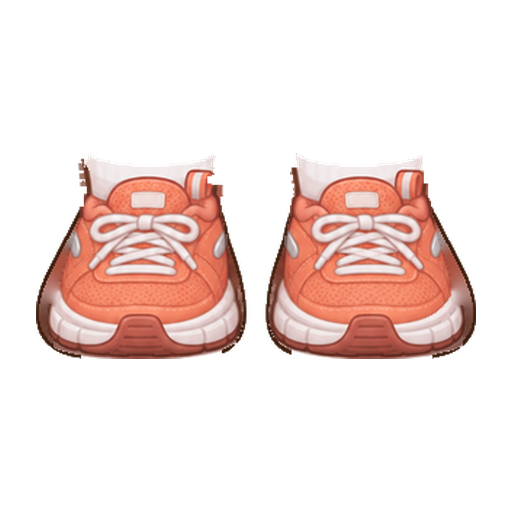
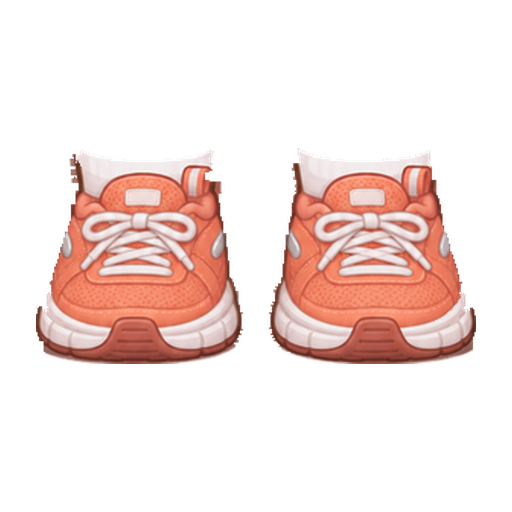
fix: 서기 맨몸의 맨발 칸을 비워 신발마다 제 외곽선이 실루엣이 되게 한다 [S15P31A207-300]
- 앱은 신발 칸을 늘 신발로 채운다(AvatarOutfit.shoes 0 = base_shoes, 서버의 해제도 0, OutfitLayerComposer는 묶음 파일이 없으면 base_*).
  그래서 맨발은 보일 일이 없고, 신발보다 넓은 맨발 실루엣이 lime_runner의 큰 외곽선·쐐기, 살구색 테두리로만 보였다(판정 round2~5).
- 서기 맨몸 아틀라스의 맨발 칸(x 96~420, y 640 아래, spec.BARE_FEET)을 비우고(stand_fix.clear_bare_feet), 검사 17번 서기 외곽선
  기준에서도 그 칸을 뺀다. 맨발을 신발 천으로 덮던 cover_feet는 stand-fix에서 빼고 신발 7켤레를 생성 원본에서 다시 만든다(회색 띠 지우기만).

Changed region(s): [[0.0625, 0.2812, 0.9375, 0.7188]]

diff --git a/android/core/avatar/tools/outfit-pipeline/outfit_pipeline/stand_fix.py b/android/core/avatar/tools/outfit-pipeline/outfit_pipeline/stand_fix.py
@@ -4,7 +4,8 @@
 2. 긴소매 상의 서기 레이어의 칼라·후드 안 빈 곳을 안감 색으로 메운다(`holes.line_collar`).
 3. 반팔·민소매 상의 서기 레이어의 몸통 옆 외곽선 밖 밝은 점을 외곽선 색으로 칠하고([solid_side_outline]), 민소매는 몸통 옆 맨살 띠와
    밑단 아래 맨살을 덮는다([close_side_skin]).
-4. 신발 서기 레이어의 외곽선 밖 회색 띠를 지우고(`feet.drop_halo`) 맨발 실루엣을 덮게 한다(`feet.cover_feet`).
+4. 신발 서기 레이어의 외곽선 밖 회색 띠를 지운다(`feet.drop_halo`). 맨몸 서기 아틀라스의 맨발 칸은 비운다([clear_bare_feet]):
+   신발이 늘 덮으므로 신발마다 제 외곽선이 실루엣이다(맨발을 신발로 덮던 `feet.cover_feet`는 쓰지 않는다).
 2·4 뒤에 새로 갇힌 좁은 틈은 검사 16번 규칙으로 메운다(`build.fill_layer_holes`).
 바뀐 묶음은 상점 그림도 다시 만든다.
 """
@@ -61,7 +62,7 @@ def fix_stand(outfits_dir: Path, raw_dir: Path, masks_dir: Path) -> dict[str, in
 
     from outfit_pipeline.body import drop_strays, wisp_layer
     from outfit_pipeline.build import cut_area, fill_layer_holes, make_shop
-    from outfit_pipeline.feet import HALO_LIGHT, HALO_LIGHT_BY_KEY, cover_feet, drop_halo
+    from outfit_pipeline.feet import HALO_LIGHT, HALO_LIGHT_BY_KEY, drop_halo
     from outfit_pipeline.holes import line_collar
 
     changed: dict[str, int] = {}
@@ -76,7 +77,13 @@ def fix_stand(outfits_dir: Path, raw_dir: Path, masks_dir: Path) -> dict[str, in
         changed[f"{spec.BODY_FOLDER}/{name}"] = (
             int((before != np.array(area)).sum()) if before is not None else area.size[0] * area.size[1]
         )
-    body = Image.open(folder / f"female_stand{spec.EXTENSION}").convert("RGBA")
+    body_path = folder / f"female_stand{spec.EXTENSION}"
+    body = Image.open(body_path).convert("RGBA")
+    cleared, count = clear_bare_feet(body)
+    if count:
+        spec.save_webp(cleared, body_path)
+        changed[f"{spec.BODY_FOLDER}/{body_path.name}"] = count
+        body = cleared
     short = [k for k in spec.LEGACY_KEYS["TOP"] if spec.default_male_top_surface(k) == 1]
     jobs = (
         [(key, line_collar) for key in COLLAR_KEYS]
@@ -86,7 +93,6 @@ def fix_stand(outfits_dir: Path, raw_dir: Path, masks_dir: Path) -> dict[str, in
         + [(key, solid_hem_corner) for key in short]
         + [(key, close_hem_slit) for key in SLIT_KEYS]
         + [(key, partial(drop_halo, light=HALO_LIGHT_BY_KEY.get(key, HALO_LIGHT))) for key in spec.LEGACY_KEYS["SHOES"]]
-        + [(key, cover_feet) for key in spec.LEGACY_KEYS["SHOES"]]
     )
     # 한 단계가 다른 단계의 결과를 바꿀 수 있어(회색 띠를 지우면 맨발이 새로 드러난다) 더 바뀌지 않을 때까지(최대 [PASSES]번) 되풀이한다
     for _ in range(PASSES):
@@ -278,3 +284,13 @@ def solid_hem_corner(layer: Image.Image, _body: Image.Image | None = None) -> tu
             array[y, x, :3] = color.round().astype(np.uint8)
         changed += len(paint)
     return Image.fromarray(array, "RGBA"), changed
+
+
+def clear_bare_feet(body: Image.Image) -> tuple[Image.Image, int]:
+    """서기 맨몸 아틀라스의 맨발 칸(spec.BARE_FEET)을 비운다(신발이 늘 덮는다). (맨몸, 비운 픽셀 수)."""
+    array = np.array(body.convert("RGBA"))
+    x0, y0, x1, y1 = spec.BARE_FEET
+    region = array[y0:y1, x0:x1]
+    count = int((region[..., 3] > 0).sum())
+    region[...] = 0
+    return Image.fromarray(array, "RGBA"), count

diff --git a/android/core/avatar/tools/outfit-pipeline/tests/test_stand_fix.py b/android/core/avatar/tools/outfit-pipeline/tests/test_stand_fix.py
@@ -106,8 +106,8 @@ def test_stand_fix_is_stable_on_the_committed_assets(tmp_path) -> None:
     assert fix_stand(tmp_path / "outfits", RAW, MASKS) == {}
 
 
-# 원본 그림의 뒤꿈치·발목 모양으로 원래 있던 옆 가장자리 계단(판정 round3 원본에서 잰 수). 나머지 신발은 계단이 없어야 한다
-SHOE_EDGE_STEPS = {"shoes_high_top": 1, "shoes_lime_runner": 2}
+# 원본 그림의 뒤꿈치·발목 모양으로 원래 있던 옆 가장자리 계단(승인 생성 원본에서 잰 수). 나머지 신발은 계단이 없어야 한다
+SHOE_EDGE_STEPS = {"shoes_high_top": 5, "shoes_lime_runner": 4}
 
 
 def _edge_steps(array: np.ndarray) -> int:
@@ -203,3 +203,11 @@ def test_solid_hem_corner_paints_light_specks_inside_the_hem_outline() -> None:
     array = np.array(out)
     assert count == 1 and array[292, 385, :3].mean() < 100
     assert array[250, 300, :3].tolist() == [250, 250, 250]
+
+
+def test_committed_stand_body_has_no_bare_feet() -> None:
+    """앱은 신발 칸을 늘 신발로 채우므로(base_shoes) 서기 맨몸의 맨발 칸은 비어 있다: 신발마다 제 외곽선이 실루엣이다(판정 round5 lime_runner)."""
+    body = np.array(Image.open(OUTFITS / spec.BODY_FOLDER / f"female_stand{spec.EXTENSION}").convert("RGBA"))
+    x0, y0, x1, y1 = spec.BARE_FEET
+    assert (body[y0:y1, x0:x1, 3] == 0).all()
+    assert (body[y0 - 20 : y0, x0:x1, 3] > 0).any()  # 그 위 다리(신발 목 위)는 남는다

diff --git a/android/core/avatar/tools/outfit-pipeline/outfit_pipeline/spec.py b/android/core/avatar/tools/outfit-pipeline/outfit_pipeline/spec.py
@@ -111,6 +111,10 @@ NECK_TOP = (176, 0, 337, 14)
 # CUT_RIGHT_NECK_SIDE)으로 둔다. 짝 어깨 띠를 상의가 덮을 때만 상의 밖 맨몸을 모두 지운다(cut.NECK_SIDES). 칼라가 맨몸 목보다 좁고
 # 어깨선이 낮은 상의(바람막이)에서 이 칸의 맨몸 어깨 윗선이 칼라 양옆에 짙은 획으로 떴다(판정 round1~3 B). 민소매 맨어깨는 그대로다
 NECK_SIDES = ((176, 217), (296, 337))
+# 서기 맨몸 아틀라스의 맨발 칸(x0, y0, x1, y1): 비운다. 앱은 신발 칸을 늘 신발로 채운다(AvatarOutfit.shoes 0 = base_shoes, 해제도 0,
+# OutfitLayerComposer는 묶음이 없으면 base_* 파일). 그래서 맨발은 보일 일이 없고, 신발보다 넓은 맨발 실루엣이 신발 옆 살구색 테두리·큰
+# 외곽선으로만 보였다(판정 round2~5 lime_runner). 신발마다 제 외곽선이 실루엣이 된다. 위 끝은 모든 신발이 다리 폭을 덮기 시작하는 행
+BARE_FEET = (96, 640, 421, 768)
 CUT_LEFT_NECK_SIDE, CUT_RIGHT_NECK_SIDE = 221, 181
 # 서기 허리 밴드(맨몸 바탕의 속옷 허리선, 상의 밑단과 하의 허리 사이): 피부가 아니라 자르지 않는다. 자르면 밑단과 허리 사이가 비었다
 STAND_WAIST = (100, 296, 412, 322)

diff --git a/android/core/avatar/OUTFIT_SPEC.md b/android/core/avatar/OUTFIT_SPEC.md
@@ -51,7 +51,7 @@ riv 네 파일(`res/raw`, 승인본 SHA 고정, 읽기만)의 아트보드는 80
 | 신발 기준점 | 정면 발 칸 (96,627)-(257,768)·(260,627)-(421,768), 양말 위 끝은 y 616 이하로 올리지 않는다 |
 | 신발 잔상·조각 (판정 round1 D) | 신발 레이어에서 신발과 떨어진 작은 덩어리(8방향 200px 미만, ankle_boots 발목 위 짧은 획)는 없다. 생성 그림의 그림자·배경이 신발 외곽선 밖에 불투명한 띠로 남은 신발(`spec.SHOE_GHOST_KEYS`: high_top 검은 잔상, lime_runner 적갈색 테두리)은 원본에서 만들 때 그 띠를 지운다(`outfit_pipeline/shoes.py`: 행마다 바깥에서 들어와 이웃 색 차 35 이하로 6~22px 이어지다 큰 색 변화(신발 외곽선)에서 멈추는 밝지 않은 띠, 5x5 닫기·7x7 열기로 다듬음). 외곽선이 부드러운 다른 신발에 쓰면 외곽선까지 지워져 확인된 신발만 둔다 |
 | 칼라·후드 안 (판정 round1 B) | 서기 맨몸 아틀라스는 얼굴 레이어 위에 그려져 얼굴 목은 아틀라스가 빈 곳(어깨선 U자 안)으로만 보인다. 생성 단계가 긴소매(finisher, hoodie, cherry_vest, windbreaker)의 목·가슴 위 칸(x 196~316, y 0~48)을 피부 판정 칸으로 써서 후드 안감·칼라를 직사각형으로 지웠고, 그 밑 맨몸 가슴 피부가 곧은 모서리의 피부 사각형으로 비쳤다. 상의 레이어 위 60행에서 같은 행 왼쪽·오른쪽에 천이 있는 투명 픽셀을 메우고 목 기둥(x 217~295) 가운데 맨몸도 빈 곳만 비워 둔다. 메우는 색은 둘레의 밝은 천(외곽선 제외)에서 매끄럽게 이어지는 안감 색(라플라스 보간)이고, 둘레에서 멀수록 0.86배, 목 구멍 바로 옆 3px은 0.9배까지 부드럽게 어둡다(`holes.line_collar`, `stand-fix`. 판정 round3: 이웃 천 색을 행·열로 번진 `fill_collar`는 세로 줄무늬 블록, 목 둘레 짙은 네모 단차, 남은 안감 조각과의 곧은 경계가 보였다) |
-| 신발 맨발 덮기 (판정 round3) | 서기 맨몸 아틀라스는 신발 밑에 맨발(종 모양 실루엣과 짙은 외곽선)이 있다. 신발이 그보다 좁으면 신발 옆으로 맨발 피부(살구색)와 외곽선이 신발보다 큰 테두리·밝은 띠로 보였다(lime_runner, ankle_boots, basic_runner). 두 발 칸에서 신발 가로 폭이 그 행 맨발 폭의 60% 이상인 첫 행부터 아래로, 그 행 바로 위 다리 폭 밖으로 나온 불투명 맨발을 신발로 덮는다: 바깥 가장자리 2px의 맨발 외곽선은 맨몸 그대로(신발 외곽선), 나머지는 이웃 신발 천 색을 그늘 없이(그늘을 넣으면 lime_runner 바깥 아래가 짙은 쐐기로 보였다, 판정 round4) 이어 칠한다(`feet.cover_feet`, `stand-fix`). 그 전에 행마다 신발 바깥 끝 6px 안의 첫 짙은 외곽선(밝기 90 미만)보다 바깥에 있는, 외곽선보다 40(basic_runner는 30) 넘게 밝고 200보다 어두운 회색 띠(생성 그림의 그림자, basic_runner 옆 띠)를 지운다. 창은 10px이고 알파 64 미만 가장자리는 띠에 넣되 덜 투명한 띠 픽셀이 2개 이상일 때만 지운다(판정 round4: 6px 창으로 아래쪽만 지워 뒤꿈치 옆 회색 덧판 위쪽이 귀 모양 탭으로 남았다, `feet.drop_halo`). 옆 가장자리에 원본에 없던 4px 넘는 계단이 없는지 시험한다 |
+| 서기 맨발 (판정 round3~5) | 서기 맨몸 아틀라스의 맨발 칸(x 96~420, y 640 아래, `spec.BARE_FEET`)은 비어 있다. 앱은 신발 칸을 늘 신발로 채운다(`AvatarOutfit.shoes` 0 = base_shoes, 서버의 해제도 0, `OutfitLayerComposer`는 묶음 파일이 없으면 base_* 파일). 그래서 맨발은 보일 일이 없고, 신발보다 넓은 맨발 실루엣이 신발 옆 살구색 테두리·신발보다 큰 외곽선·쐐기로만 보였다(lime_runner, ankle_boots, basic_runner). 신발마다 제 외곽선이 실루엣이 된다(`stand-fix`의 `clear_bare_feet`, 검사 17번 서기 외곽선 기준에서도 그 칸을 뺀다). 맨발을 신발 천으로 덮던 round3 방식(`feet.cover_feet`)은 쓰지 않는다. 신발 레이어는 행마다 바깥 끝 10px 안의 첫 짙은 외곽선(밝기 90 미만)보다 바깥에 있는, 외곽선보다 40(basic_runner는 30) 넘게 밝고 200보다 어두운 회색 띠(생성 그림의 그림자)를 지운다(`feet.drop_halo`) |
 | 민소매 몸통 옆 맨살 (판정 round4) | 표지 색 렌더(텍셀마다 (층, x, y)를 색으로 그려 렌더 픽셀의 출처를 읽음)로 singlet 밑단 옆 짧은 짙은 획과 밝은 점이 맨몸 아틀라스 x 100~124·376~392, y 256~295의 몸통 옆 외곽선과 그 안쪽 맨살 띠, 밑단과 하의 허리 사이 맨살임을 확인했다. singlet 서기 레이어는 행마다(y 200~295) 상의 옆 가장자리 바깥의 맨살(몸통 옆 외곽선 앞까지 6px 이하)을 상의 천 색으로, 밑단 아래 하의 허리(y 296)까지의 맨몸(빈 곳에서 4px 안의 몸통 옆 외곽선 제외)을 그 옆 칸 밝은 천 가운데값으로 덮는다(`stand_fix.close_side_skin`, `stand-fix`) |
 | 상의 밑단 아래 옆 조각·모서리 흰 점 (판정 round4) | 서기 상의 레이어에는 본체와 떨어진 밑단 아래(y 296 이상) 엉덩이 옆 칸(x 150 미만·362 이상) 조각이 없다. base_top의 x 112~119·394~402, y 304~319 조각(승인 텍스처에서 뽑을 때 딸려 온 기본 반바지 옆 외곽선)이 다른 하의와 입으면 허리 옆 고리·홈으로 보였다(wide_pants 허리 고리, base 체형 100 허리 홈, `stand_fix.drop_side_fragments`). 반팔·민소매는 밑단 모서리(y 280~299) 짙은 외곽선 띠 안에 4방향 이웃 셋 이상이 짙은 밝은 점이 없다(`stand_fix.solid_hem_corner`) |
 | running_shorts 옆트임 (판정 round2~4) | 밑단 옆(y 388~407, x 90~129·384~423) 행마다 맨 바깥 천과 안쪽 천 사이 10px 이하 빈 곳(처진 앞판 끝과 밑단 사이 트임)을 그 행 천 가운데값으로 메운다(`stand_fix.close_hem_slit`) |
@@ -106,7 +106,7 @@ uv run pytest
 14. 하의 레이어(서기·달리기 다리)에 위·아래가 천(알파 128 이상)인 세로 4px 이하 틈이 없다(메워도 3x3 굵은 실루엣 밖인 가장자리 홈은 뺀다). 밑단 안감 사이·주름 사이로 맨몸이 살색 점선으로 보였다(예전엔 맨몸의 회색 속바지가 메웠다, [임시:D-성-185]). `build`·`clean-body`가 위·아래 천 색 보간으로 메운다.
 15. 하의 서기 레이어의 엉덩이 옆 칸·허리(x 100~411, y 296~329)에 7px로 닫으면 메워지는 맨몸 실루엣 안 빈 곳(밑단 옆 트임, 허리 옆 구멍)이 없다. 그 밑 맨몸이 배경이나 살색 조각으로 비쳤다([임시:D-성-185]). `build`·`clean-body`가 이웃 천 색으로 메운다. 앱 시험은 하의 7벌 × 남녀 × 서기(상의 7벌, 허리·엉덩이 행에서 옷의 가로 범위 안)·달리기 다리(전체)에서 맨몸 실루엣 안인데 아무 레이어도 덮지 않은 픽셀이 0인지 본다(OutfitCompositeTest).
 16. 옷 레이어(21벌 × 서기·달리기) 실루엣 안에 구멍이 없다. 씨앗은 알파 128 미만 픽셀 가운데 (1) 굵은 천(7x7 열기) 안에서 5x5로 닫은 옷으로 둘러싸인 빈 곳(바깥에서 1px 넘게 떨어지고, 굵은 천이 네 방향 가운데 셋 이상에서 48px 안에 있는 곳: 밑단 아래 늘어진 끈 사이 틈은 위에만 천이 있어 빠진다)과 (2) 7x7로 닫으면 메워지는 바깥과 이어진 빈 곳 가운데 왼쪽·오른쪽 8px 안에 모두 굵은 천이 있는 곳(밑단 옆 V 트임)이고, 구멍은 씨앗과 그 둘레 2px 안의 반투명(알파 128~199) 테두리다. 텍스처 가장자리 너머는 바깥으로 보고 가장자리 3px 안은 씨앗이 아니다(메시가 잘리는 곳). 구멍과 떨어진 외곽선 안티앨리어싱은 그대로 둔다(검수: 알파 250 미만을 모두 구멍으로 보면 신발·하의 외곽선이 딱딱해졌다). 그 슬롯 남녀 템플릿 허용 영역의 교집합 안만 센다(남녀가 한 파일을 함께 쓴다). 늘어진 끈 사이와 목처럼 넓게 트인 곳은 남는다. `build`·`clean-body`가 메운다(`outfit_pipeline/holes.py`): 넓은 밝은 천(플라켓) 안의 구멍은 그 천 색으로 메우고, 3x3로 3번 열어 남는 둥근 덩어리(긴 변 ≤ 짧은 변 × 1.5, 넓이 ≥ 바깥 상자의 0.6)마다 둥근 단추를 그리며(흰 티 밑단 위 길쭉한 구멍은 천 색만), 끈 고리 안은 3~8px 밖 천 색, 그 밖은 이웃 천 색을 번져 채운다(폴로 단추 자리로 맨몸이 갈색 점으로 비쳤다).
-17. 맨몸 바탕 외곽선이 정리 전 승인 원본처럼 이어진다: 기준 `templates/masks/body_outline_female_{stand,run_body,run_arm,run_leg}.png`(원본에서 빈 곳 5px 안의 짙은 불투명 픽셀, 고립 점·팔꿈치 꼬리·틈 조각 제외, 달리기 슬롯은 3x3 밖 털도 제외)의 픽셀이 지금도 불투명하고 짙다(밝기 140 미만, 검수: 실기기에서 팔 외곽선이 끊겼다). 달리기 다리 기준은 엉덩이 잇기 칸(x 88~167, y 24~71, 다리 메시가 화면에 쓰지 않는 칸, 3절 「달리기 엉덩이 잇기」)을 뺀다. 서기 기준은 손 외곽 털(외곽선 밖 나란한 가는 획)을 뺀다.
+17. 맨몸 바탕 외곽선이 정리 전 승인 원본처럼 이어진다: 기준 `templates/masks/body_outline_female_{stand,run_body,run_arm,run_leg}.png`(원본에서 빈 곳 5px 안의 짙은 불투명 픽셀, 고립 점·팔꿈치 꼬리·틈 조각 제외, 달리기 슬롯은 3x3 밖 털도 제외)의 픽셀이 지금도 불투명하고 짙다(밝기 140 미만, 검수: 실기기에서 팔 외곽선이 끊겼다). 달리기 다리 기준은 엉덩이 잇기 칸(x 88~167, y 24~71, 다리 메시가 화면에 쓰지 않는 칸, 3절 「달리기 엉덩이 잇기」)을 뺀다. 서기 기준은 손 외곽 털(외곽선 밖 나란한 가는 획)과 맨발 칸(`spec.BARE_FEET`, 신발이 늘 덮는다)을 뺀다.
 
 렌더 검사(검수 목록, `outfit-pipeline render-check`): 검사 17번은 아틀라스만 봐서 체형 100 메시 변형 뒤의 외곽선 끊김·사다리 획을 놓쳤다(판정 round3). 앱과 같은 규칙으로 합성한 서기 아틀라스를 Rive CLI로 남녀 체형 100(기본)에 그려 폰 화면 배율(760/1211)로 줄인 뒤, 단색 배경에서 (1) 몸 덩어리와 떨어진 3px 이상 조각(사다리 획, 옷 밖에 뜬 획·점)과 (2) 턱 아래 실루엣 안에 갇힌 150px 이하 배경(끊긴 외곽선·메시 이음매로 비치는 틈)이 없어야 한다(`outfit_pipeline/render_check.py`, 판정 함수는 pytest). Rive CLI와 Rive 원본이 저장소 밖에 있어 `check`와 앱 시험에는 넣지 않고, 판정 회차마다 돌린다.
 
